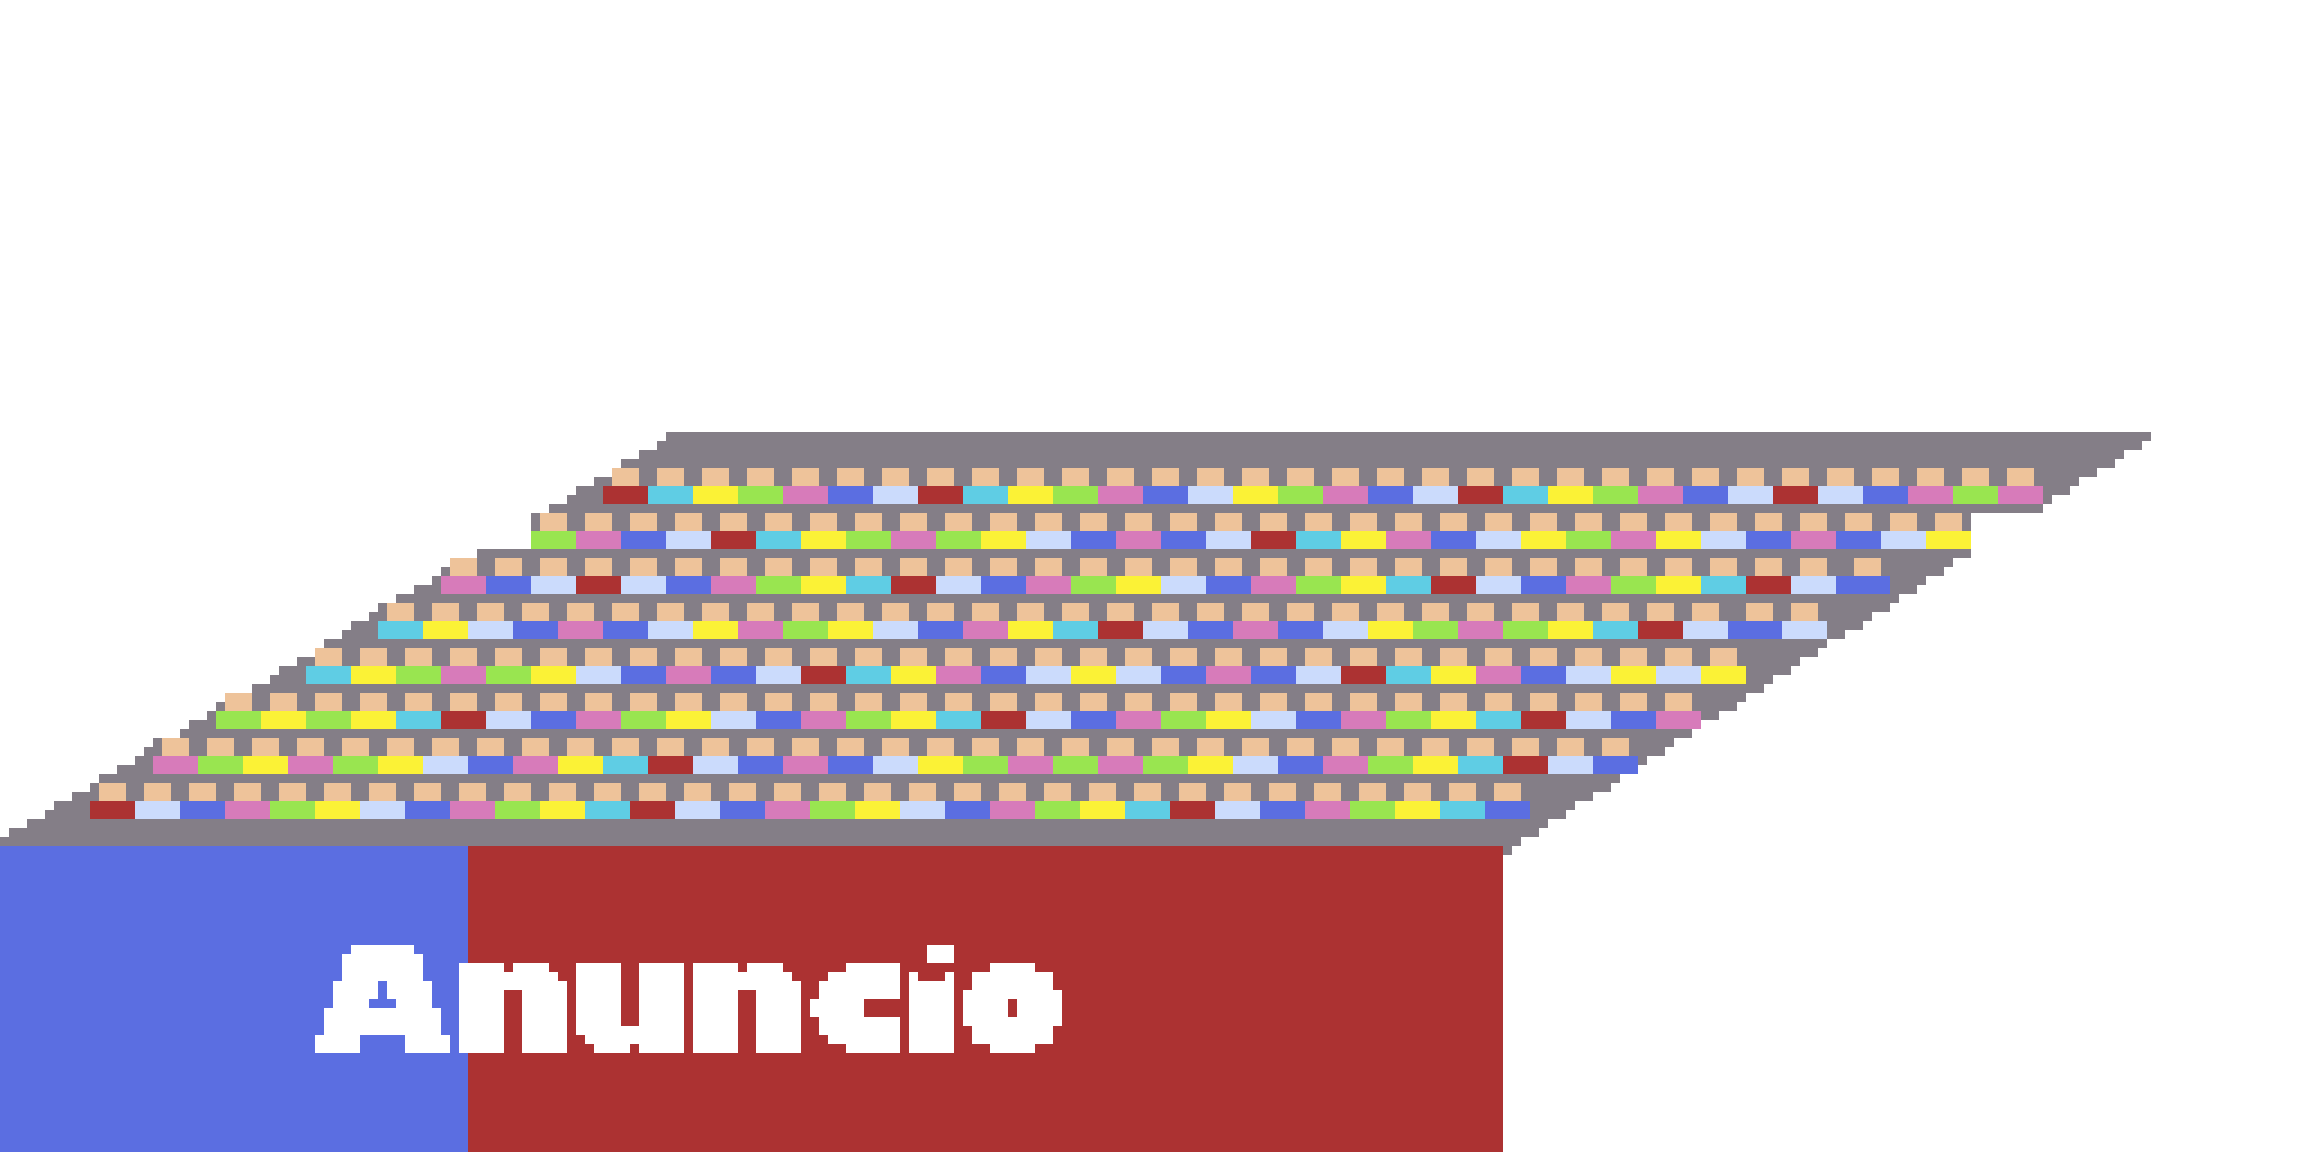
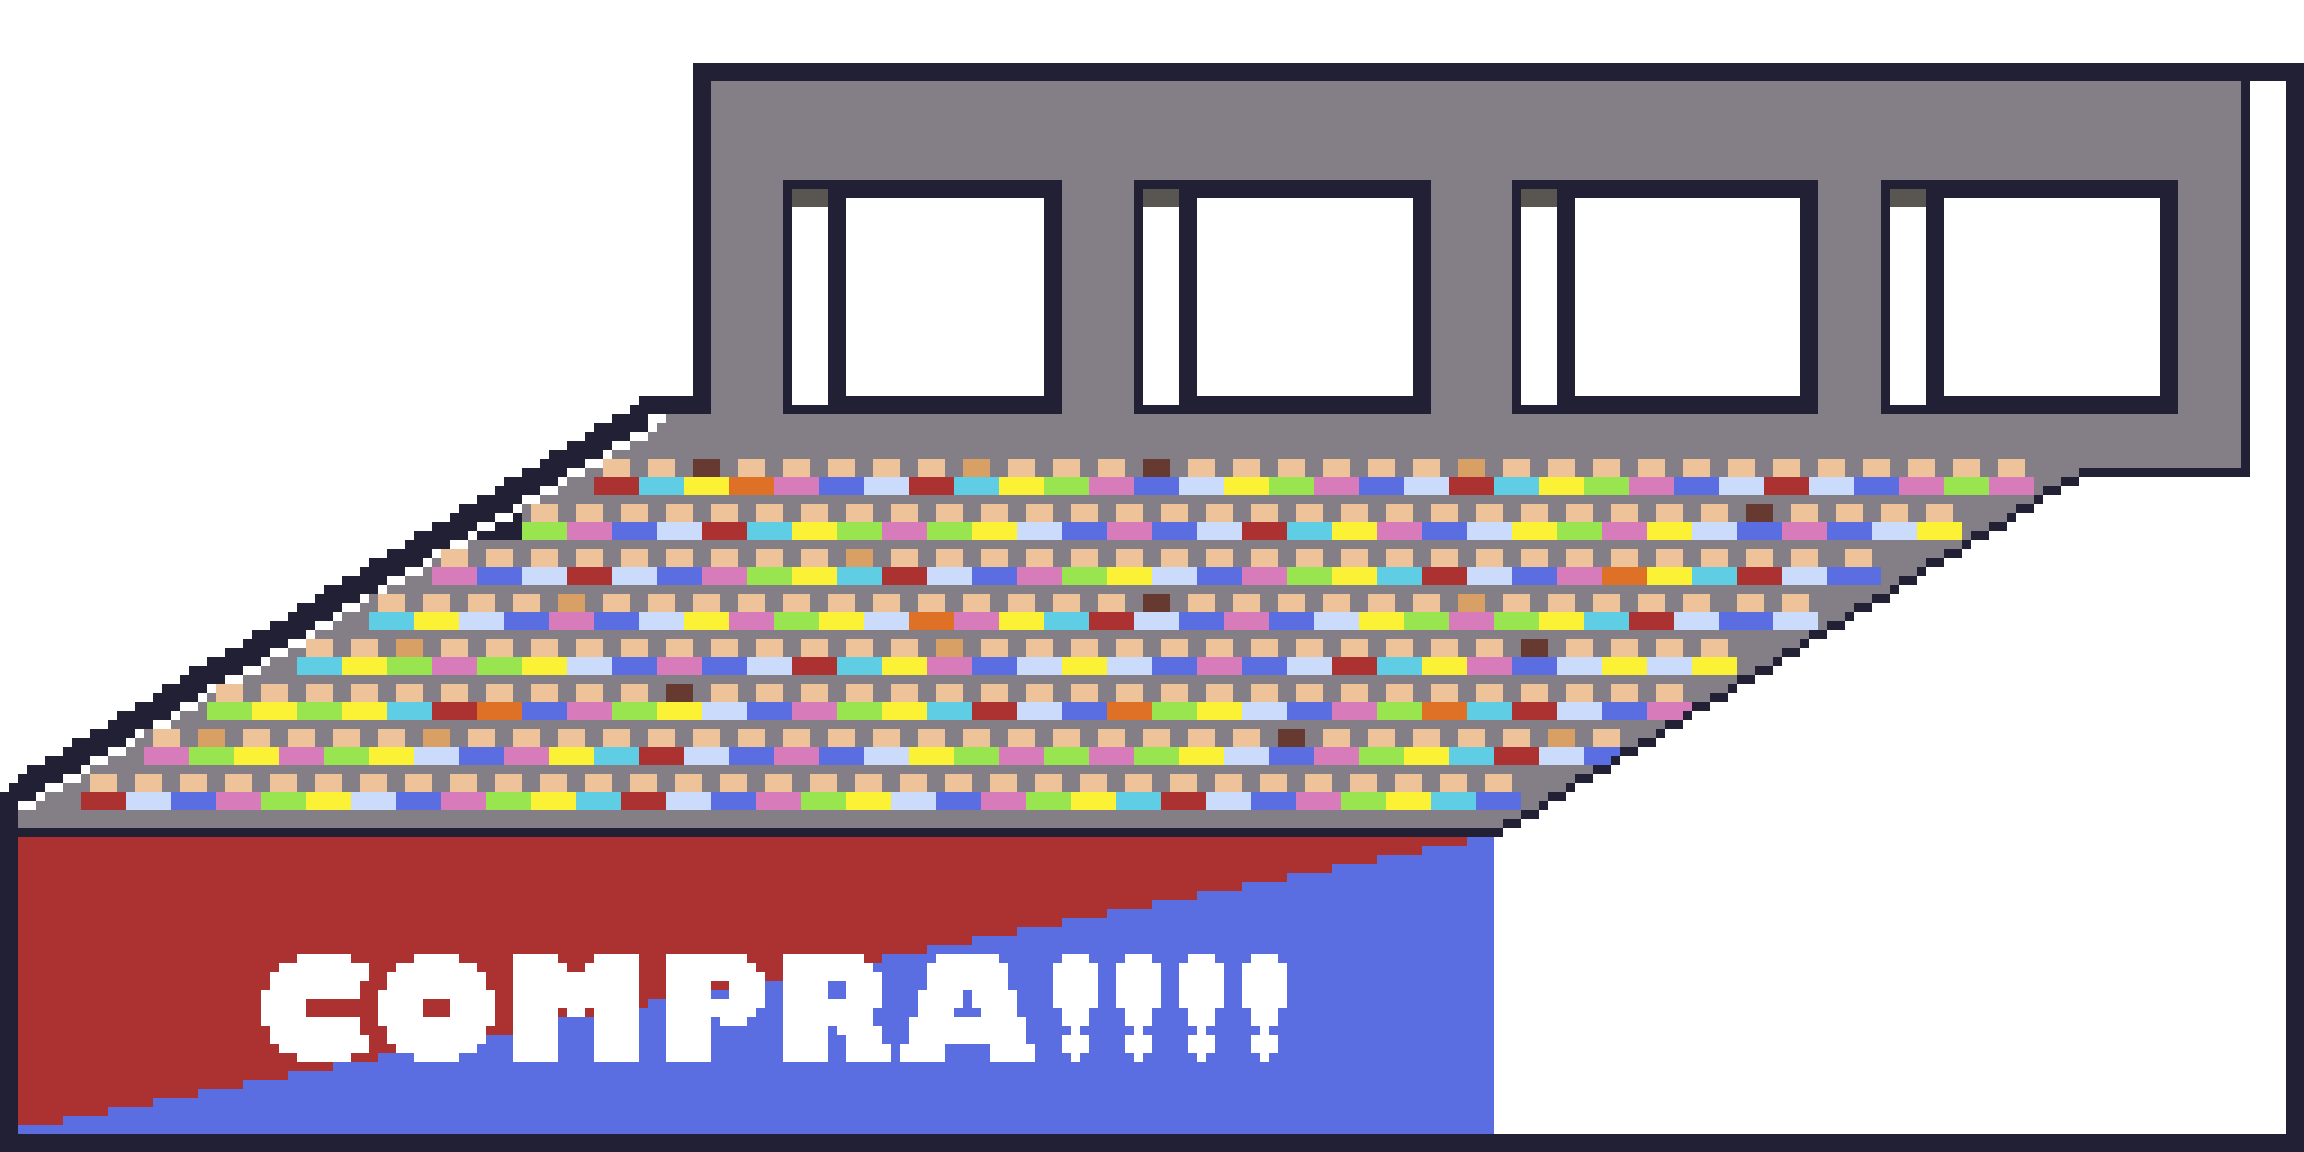
vegetacion

diff --git a/GameContext.py b/GameContext.py
@@ -174,9 +174,37 @@ class GameContext:
         )
         objects = MapGenerator.objects(
             objects,
-            self.road.segments[10:20],
+            self.road.segments[5:25],
             "grada",
-            3.0, 0.0, 3.0
+            5.0, 0.0, 2.0
+        )
+        objects = MapGenerator.objects(
+            objects,
+            self.road.segments[-35:],
+            "vegetacion.1",
+            5.0, 0.0, 2.0
+            ,2.0,2.0
+        )
+        objects = MapGenerator.objects(
+            objects,
+            self.road.segments[-35:],
+            "vegetacion.1",
+            5.0, 5.0, -2.0
+            ,-2.0,2.0
+        )
+        objects = MapGenerator.objects(
+            objects,
+            self.road.segments[-35:],
+            "vegetacion.2",
+            5.0, 0.0, 1.0
+            ,2.0,2.0
+        )
+        objects = MapGenerator.objects(
+            objects,
+            self.road.segments[-35:],
+            "vegetacion.2",
+            5.0, 5.0, -1.0
+            ,-2.0,2.0
         )
 
         # PENDIENTE:

diff --git a/Escenario.py b/Escenario.py
@@ -88,6 +88,8 @@ class Escenario:
         self.cache.addImage("start","start.png",(0.5,3.5),False,False)
         self.cache.addImage("column","column.png",(0.5,1.0),False,False)
         self.cache.addImage("grada","grada.png",(0.0,1.0),False,False)
+        self.cache.addImage("vegetacion.1","vegetacion.1.png",(0.5,1.0),False,False)
+        self.cache.addImage("vegetacion.2","vegetacion.2.png",(0.5,1.0),False,False)
 
         self.cache.addAnimation("enemigo.1","enemigo.1.png",(0.5,1.0),False,True,ancho=256,alto=256)
 
